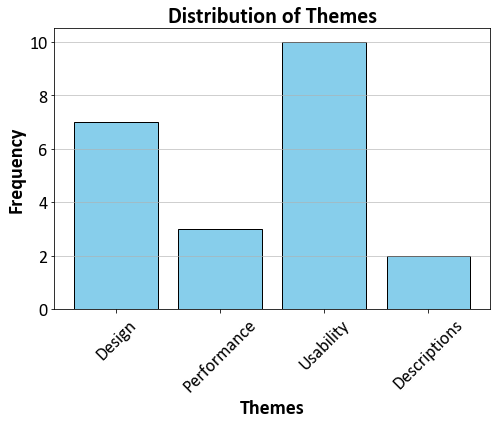
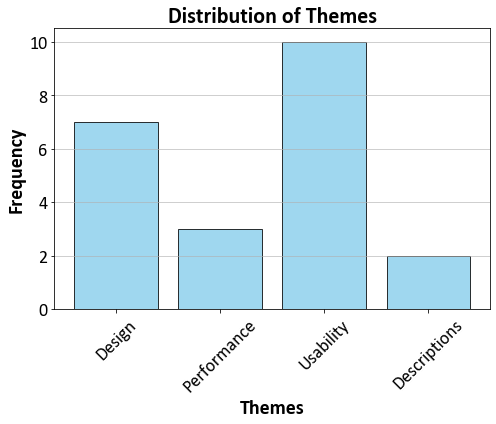
Add files via upload

diff --git a/website_thematicanalysis.py b/website_thematicanalysis.py
@@ -87,7 +87,7 @@ plt.rcParams['font.family'] = 'Calibri'
 # Bar plot of code frequency
 plt.figure(figsize=(7, 6))
 code_counts = df.iloc[:, 3:].sum()
-plt.bar(code_counts.index, code_counts.values, color='skyblue', edgecolor='black')
+plt.bar(code_counts.index, code_counts.values, color='skyblue', edgecolor='black', alpha=0.8)
 plt.xlabel("Themes", fontweight='bold', fontsize=fs)
 plt.ylabel("Frequency", fontweight='bold', fontsize=fs)
 plt.title("Distribution of Themes", fontweight='bold', fontsize=fs+2)
@@ -99,7 +99,7 @@ plt.show()
 
 # Plot histogram of ratings
 plt.figure(figsize=(8, 6))
-plt.hist(df['Rating'], bins=np.arange(0.5, 6.5, 1), color='skyblue', edgecolor='black')
+plt.hist(df['Rating'], bins=np.arange(0.5, 6.5, 1), color='skyblue', edgecolor='black', alpha=0.8)
 plt.xlabel('Rating', fontweight='bold', fontsize=fs)
 plt.ylabel('Frequency', fontweight='bold', fontsize=fs)
 plt.title("Distribution of Ratings", fontweight='bold', fontsize=fs+2)
@@ -150,7 +150,7 @@ p_value = binom_test(num_pos, n=num_pos+num_neg, p=0.5)
 
 # Plot bar chart
 fig, ax = plt.subplots(figsize=(7, 6))
-ax.bar(["Positive", "Negative"], [num_pos, num_neg], color=["#00A36C", "#FA5F55"])
+ax.bar(["Positive", "Negative"], [num_pos, num_neg], color=["#00A36C", "#FA5F55"], alpha=0.9)
 ax.set_xticklabels(["Positive", "Negative"], fontsize=fs)
 ax.set_xlabel("Sentiment", fontsize=fs, fontweight="bold")
 ax.set_ylabel("Number of Responses", fontsize=fs, fontweight="bold")
